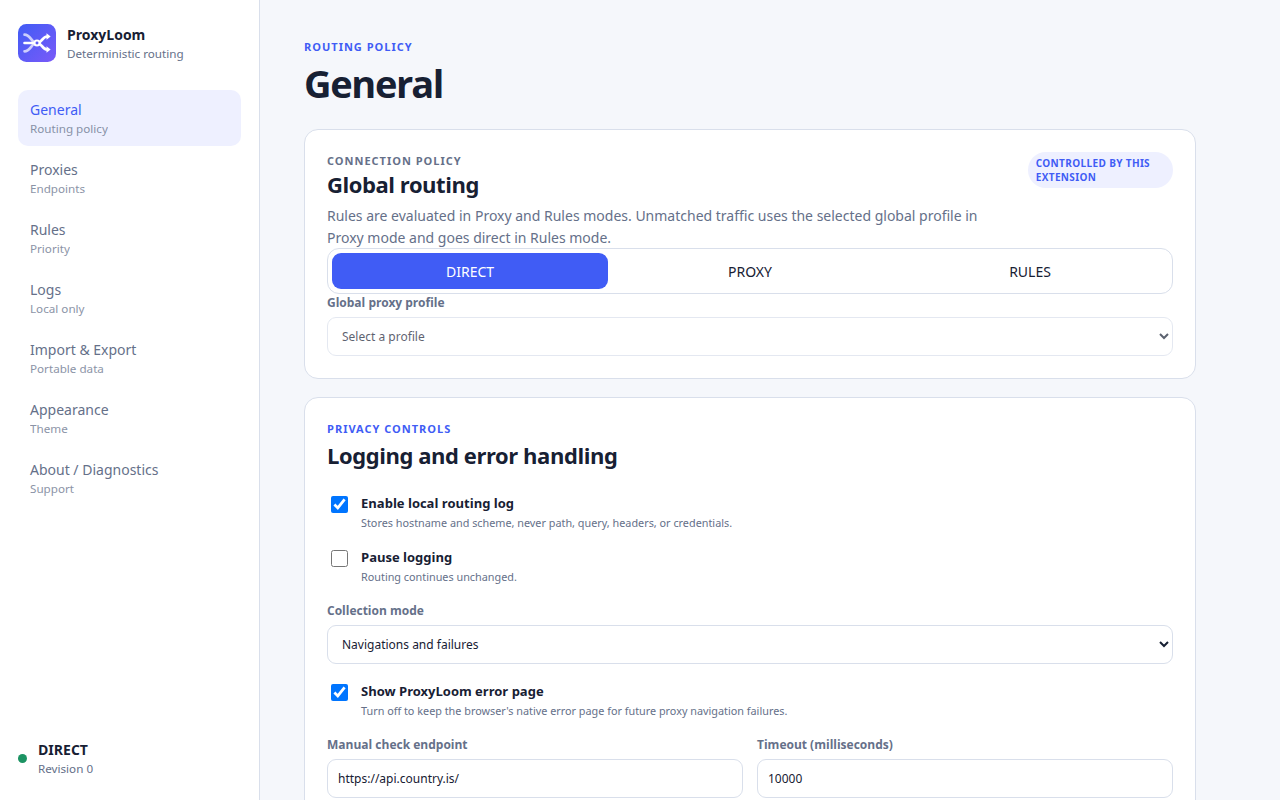
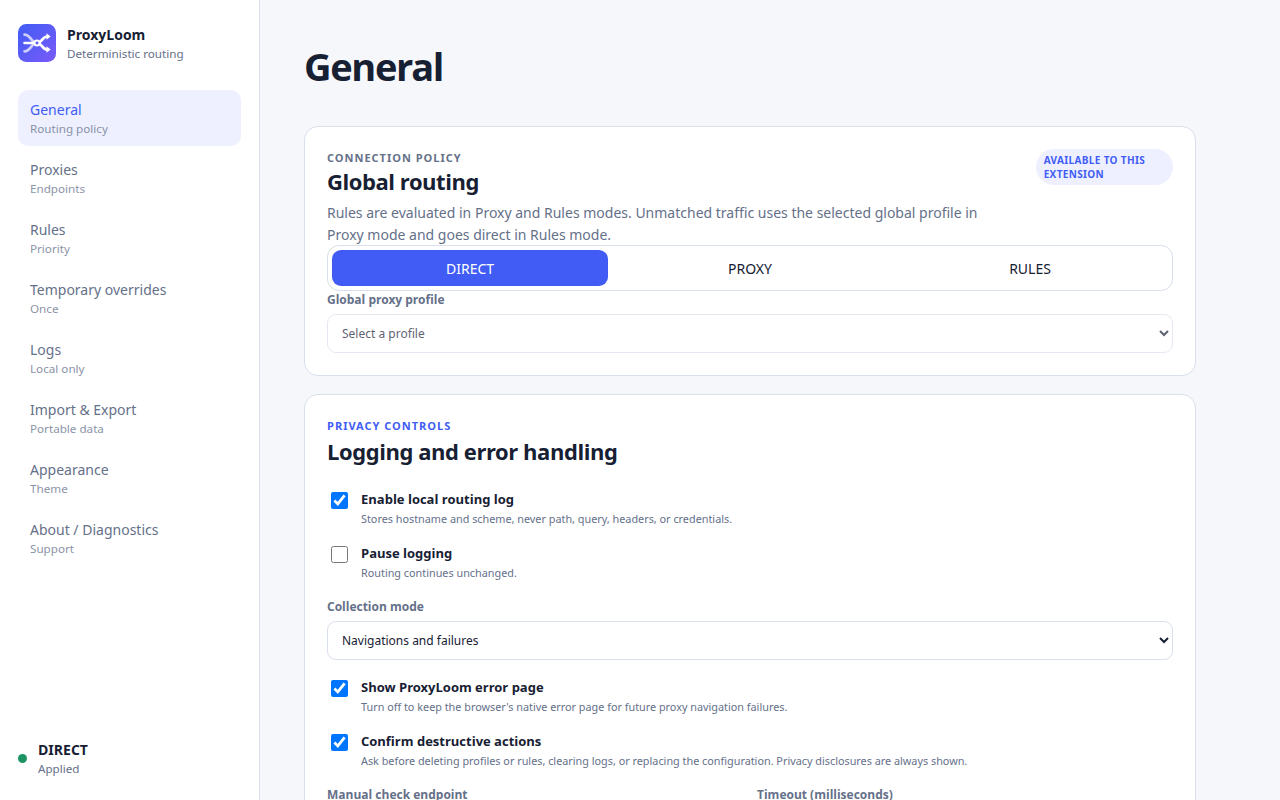
PL-143 sync README, user guide, store listing and screenshot with phase 33

diff --git a/docs/traceability.md b/docs/traceability.md
@@ -59,7 +59,8 @@ complete acceptance evidence exists.
 | PL-140        | A      | Profile editor paste component tests (fill, keep name, ambiguity, no-echo error) and Chromium paste → save E2E                    | None beyond aggregate release gates                                |
 | PL-141        | A      | Formatter round-trip and real-bash quoting tests, copy/export/popup component tests, Chromium clipboard and export E2E            | None beyond aggregate release gates                                |
 | PL-142        | A      | deleteMany/filter unit tests, bulk UI component tests and Chromium 500-profile import/search/bulk-delete E2E                      | None beyond aggregate release gates                                |
-| PL-143…PL-145 | P      | Planned in `docs/IMPROVEMENT_PLAN.md`; no implementation evidence yet                                                             | Full task acceptance                                               |
+| PL-143        | A      | README, user guide, privacy, store listing and recaptured store screenshot; docs/spell/store-asset validators                     | Human store-portal review in PL-115                                |
+| PL-144…PL-145 | P      | Planned in `docs/IMPROVEMENT_PLAN.md`; SOCKS5 handled separately                                                                  | Full task acceptance                                               |
 | PL-146        | A      | Brand asset unit test, Chromium-rendered icons, dual build manifest validation and accessibility/foundation E2E                   | Visual toolbar check on signed packages in release matrices        |
 | PL-147        | A      | Toast/ProfileChip/OverflowMenu/Drawer/apply-state component tests and full Chromium E2E incl. accessibility contrast and zoom     | None beyond aggregate release gates                                |
 | PL-148        | A      | Popup layout/copy component tests and full Chromium popup E2E incl. 200% zoom and intrinsic width                                 | None beyond aggregate release gates                                |

diff --git a/README.md b/README.md
@@ -31,11 +31,17 @@ the HTTPS endpoint.
   templates plus editable Russian-sites and social-network examples, search, filters,
   drag-and-drop and keyboard ordering;
 - local regex and full routing testers with no network requests;
-- Once/Always site actions and private-session isolation;
+- Once/Always site actions with a Temporary overrides list (edit scope and route, make
+  permanent, remove) in settings and the popup, and private-session isolation;
+- proxy import from pasted text or `.txt`/`.csv` (URI, `host:port`, `user:pass@host:port`,
+  `host:port:user:pass`, CSV/TSV, IPv6) with a preview, plus a paste-to-fill profile editor;
+- copy a profile as URL, curl command or `host:port:user:pass`, and export the list as text;
+- profile search, filters and bulk check/delete; rule bulk enable/disable/delete;
 - redacted local routing logs and an optional best-effort main-frame error page with a safe origin
   link;
 - inactive-profile checks through the selected proxy, only after an explicit click;
-- native JSON merge/replace/export and profiles-only FoxyProxy 6–9 import;
+- native JSON merge/replace/export (credentials included by default, opt-out available) and
+  profiles-only FoxyProxy 6–9 import;
 - system/light/dark themes and localized English UI;
 - local-only storage, no analytics, telemetry, accounts, ads, remote config, or remote code.
 

diff --git a/store/listing.en.md b/store/listing.en.md
@@ -7,7 +7,9 @@ Clear, deterministic HTTP and HTTPS proxy routing with ordered rules and no hidd
 ## Full description
 
 ProxyLoom gives you explicit DIRECT, PROXY, and RULES modes; separate HTTP/HTTPS endpoints;
-first-match ordered rules; per-site Once/Always actions; local diagnostics; and safe import/export.
+first-match ordered rules; per-site Once/Always actions with a manageable list of Once overrides;
+proxy import from pasted lines or text files with a preview; copy as URL or curl; local
+diagnostics; and safe import/export.
 
 Assigned proxy routes fail closed. Origin Rules work across Chromium and Firefox. Firefox also
 supports Full URL path/query rules. Chromium clearly marks and skips those rules because its PAC

diff --git a/TASKS.md b/TASKS.md
@@ -1620,7 +1620,7 @@
   - **Тесты:** application unit, E2E 500 profiles.
   - **Готово, когда:** unit/E2E/typecheck/lint/dual builds зелёные, version 0.1.12/docs обновлены.
 
-- [ ] **PL-143 — Обновить user guide, store тексты и скриншоты**
+- [x] **PL-143 — Обновить user guide, store тексты и скриншоты**
   - **Цель:** документация соответствует PL-133…PL-142 и PL-146…PL-150.
   - **Требования:** FR-012, FR-054.
   - **Действия:** user guide (Once management, Import from text, Copy as), store listing,
